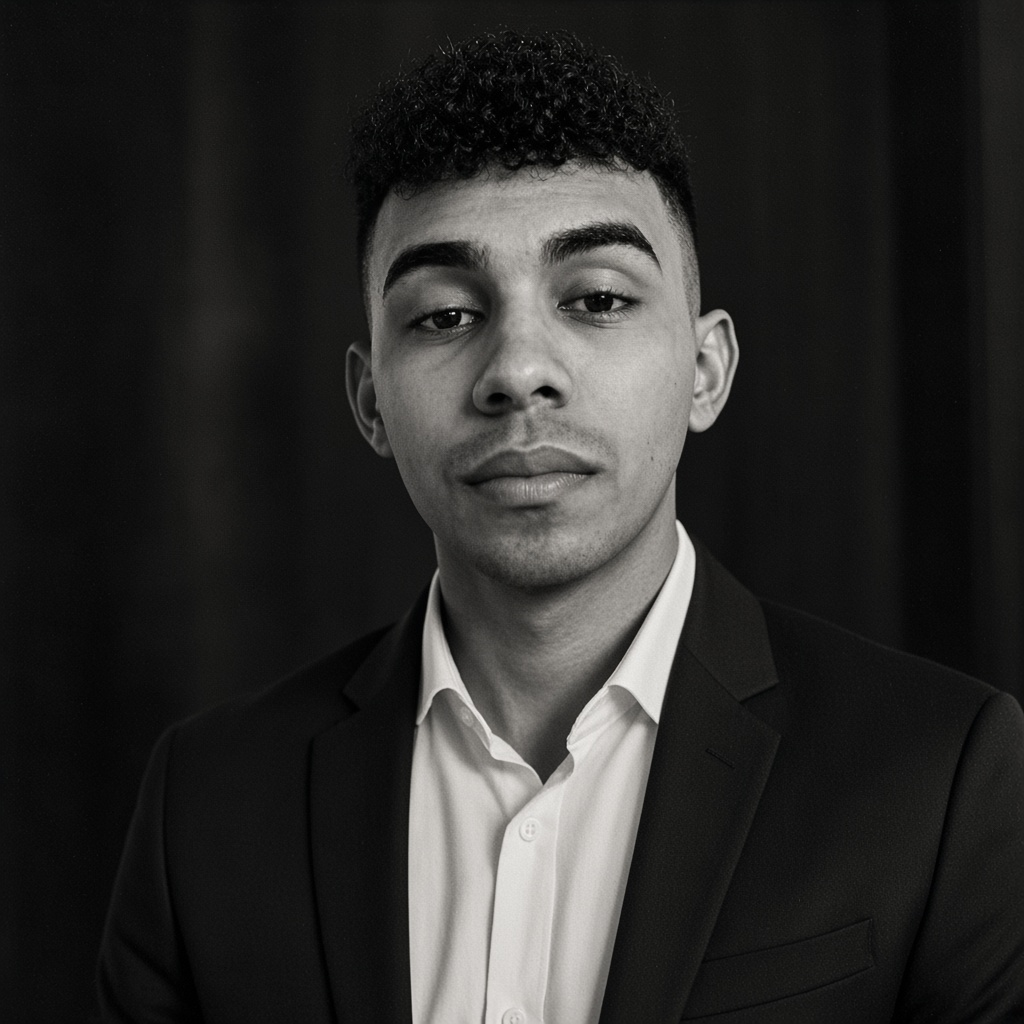
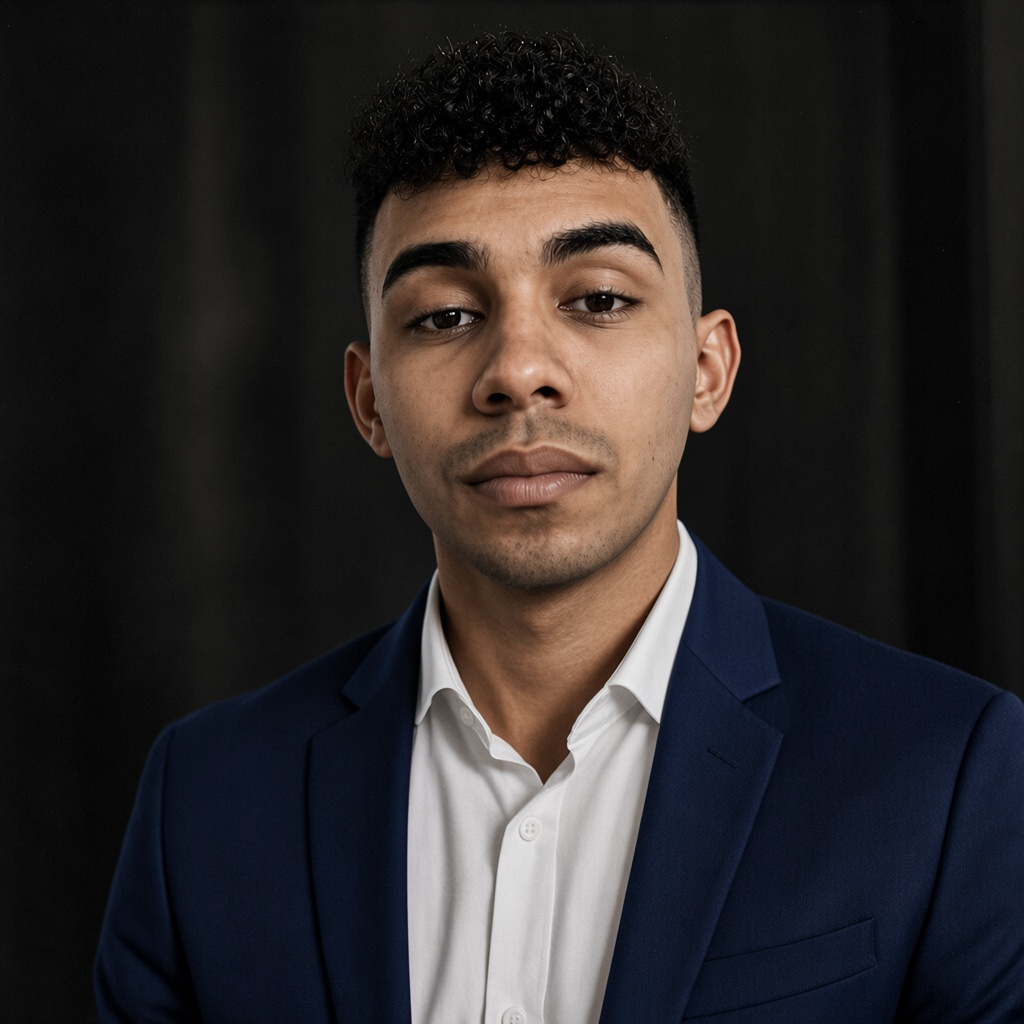
feat: mejorar experiencia de perfil y visibilidad de proyectos
- Actualizar foto de perfil de Heider Gonzalez a color para mejor presentación
- Agregar enlaces directos a proyectos públicos (hsocial y Nexo)
- Implementar visualización ampliada de imágenes de proyectos al hacer clic
- Indicar claramente proyectos privados para transparencia con usuarios
- Mejorar navegabilidad y accesibilidad del portafolio de equipo

Generated with [Devin](https://devin.ai)

diff --git a/src/routes/equipo.tsx b/src/routes/equipo.tsx
@@ -78,25 +78,29 @@ const team: TeamMember[] = [
         title: "hsocial",
         description: "Red social universitaria para generar ideas y equipos de trabajo",
         category: "Social",
-        image: "/Red social h social.png"
+        image: "/Red social h social.png",
+        link: "https://hideon-red-social.vercel.app/"
       },
       {
         title: "Nexo",
         description: "Co-founder de Nexo",
         category: "Startup",
-        image: "/nexo.png"
+        image: "/nexo.png",
+        link: "/"
       },
       {
         title: "BiblioUR",
         description: "Sistema de Biblioteca (Microservicios)",
         category: "Infrastructure",
-        image: "/biblioUR.png"
+        image: "/biblioUR.png",
+        isPrivate: true
       },
       {
         title: "h chat",
         description: "App de mensajería para universidad",
         category: "Communication",
-        image: "/h chat.png"
+        image: "/h chat.png",
+        isPrivate: true
       }
     ],
     experience: [
@@ -207,6 +211,8 @@ interface TeamMember {
     description: string;
     category: string;
     image: string;
+    link?: string;
+    isPrivate?: boolean;
   }>;
   personal?: {
     education: string;
@@ -255,6 +261,7 @@ function TeamPage() {
   const [searchQuery, setSearchQuery] = useState("");
   const [activeTab, setActiveTab] = useState<ProfileTabId>("proyectos");
   const [imgErrors, setImgErrors] = useState<Record<string, boolean>>({});
+  const [selectedProjectImage, setSelectedProjectImage] = useState<string | null>(null);
 
   // El perfil abierto se calcula a partir de la URL, no de estado local
   // — esto es lo que corrige el bug de "Atrás va a Inicio" (ver nota arriba).
@@ -428,7 +435,7 @@ function TeamPage() {
                       <img
                         src={selectedMember.avatarUrl}
                         alt={selectedMember.name}
-                        className="w-full h-full object-cover filter grayscale"
+                        className="w-full h-full object-cover"
                         onError={() => handleImgError(selectedMember.name)}
                       />
                     ) : (
@@ -550,7 +557,10 @@ function TeamPage() {
                       <div className="grid grid-cols-2 gap-4">
                         {selectedMember.projects.map((project, index) => (
                           <div key={index} className="border border-border rounded-lg overflow-hidden">
-                            <div className="h-32 bg-muted overflow-hidden">
+                            <div 
+                              className="h-32 bg-muted overflow-hidden cursor-pointer hover:opacity-80 transition-opacity"
+                              onClick={() => setSelectedProjectImage(project.image)}
+                            >
                               <img
                                 src={project.image}
                                 alt={project.title}
@@ -561,12 +571,28 @@ function TeamPage() {
                               <h4 className="text-sm font-semibold text-foreground mb-2">
                                 {project.title}
                               </h4>
-                              <p className="text-xs text-muted-foreground">
+                              <p className="text-xs text-muted-foreground mb-3">
                                 {project.description}
                               </p>
-                              <span className="mt-2 inline-block px-2 py-1 rounded-full bg-muted text-xs text-muted-foreground">
-                                {project.category}
-                              </span>
+                              <div className="flex items-center justify-between">
+                                <span className="inline-block px-2 py-1 rounded-full bg-muted text-xs text-muted-foreground">
+                                  {project.category}
+                                </span>
+                                {project.isPrivate ? (
+                                  <span className="text-xs text-muted-foreground italic">
+                                    Sitio privado
+                                  </span>
+                                ) : project.link ? (
+                                  <a
+                                    href={project.link}
+                                    target="_blank"
+                                    rel="noreferrer"
+                                    className="text-xs text-[#00c2ff] hover:underline"
+                                  >
+                                    Ver proyecto
+                                  </a>
+                                ) : null}
+                              </div>
                             </div>
                           </div>
                         ))}
@@ -670,6 +696,29 @@ function TeamPage() {
                 </div>
               </div>
             </div>
+          </div>
+        </div>
+      )}
+
+      {/* Modal para ver imagen de proyecto en grande */}
+      {selectedProjectImage && (
+        <div
+          className="fixed inset-0 z-[60] bg-black/80 flex items-center justify-center p-4"
+          onClick={() => setSelectedProjectImage(null)}
+        >
+          <div className="relative max-w-4xl max-h-[90vh]">
+            <button
+              onClick={() => setSelectedProjectImage(null)}
+              className="absolute -top-10 right-0 text-white hover:text-gray-300 transition-colors"
+              aria-label="Cerrar imagen"
+            >
+              <CloseIcon className="h-6 w-6" />
+            </button>
+            <img
+              src={selectedProjectImage}
+              alt="Proyecto en grande"
+              className="max-w-full max-h-[90vh] object-contain rounded-lg"
+            />
           </div>
         </div>
       )}
